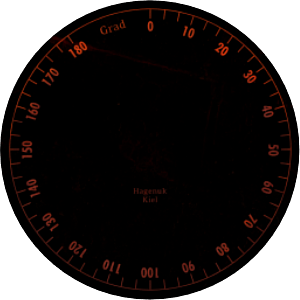
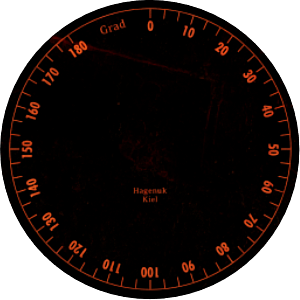
new turning dials for torpedo setup screen

diff --git a/dangerdeep/src/sub_torpsetup_display.cpp b/dangerdeep/src/sub_torpsetup_display.cpp
@@ -45,8 +45,8 @@ sub_torpsetup_display::sub_torpsetup_display(user_interface& ui_)
 	redlight.torpspeeddial.set("torpsetup_redlight_torpspeed.png", 541, 77, 636, 172); 
 	daylight.turnangledial.set("torpsetup_daylight_turnangle.png", 469, 508, 619, 658);
 	redlight.turnangledial.set("torpsetup_redlight_turnangle.png", 469, 508, 619, 658);
-	daylight.primaryrangedial.set("torpsetup_daylight_primaryrunlength.png", 230, 507, 381, 658);
-	redlight.primaryrangedial.set("torpsetup_redlight_primaryrunlength.png", 230, 507, 381, 658);
+	daylight.primaryrangedial.set("torpsetup_daylight_primaryrunlength.png", 231, 508, 381, 658);
+	redlight.primaryrangedial.set("torpsetup_redlight_primaryrunlength.png", 231, 508, 381, 658);
 	daylight.torpspeed[0].reset(new texture(get_image_dir() + "torpsetup_daylight_speedslow.png"));
 	redlight.torpspeed[0].reset(new texture(get_image_dir() + "torpsetup_redlight_speedslow.png"));
 	daylight.torpspeed[1].reset(new texture(get_image_dir() + "torpsetup_daylight_speedmedium.png"));
